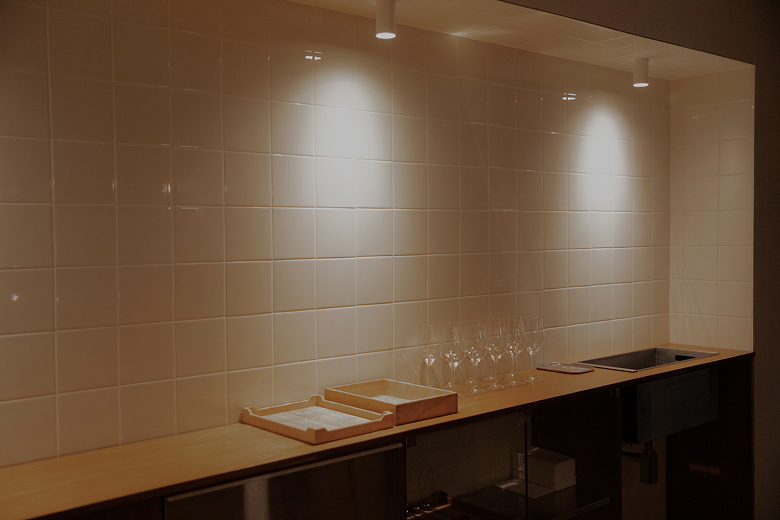
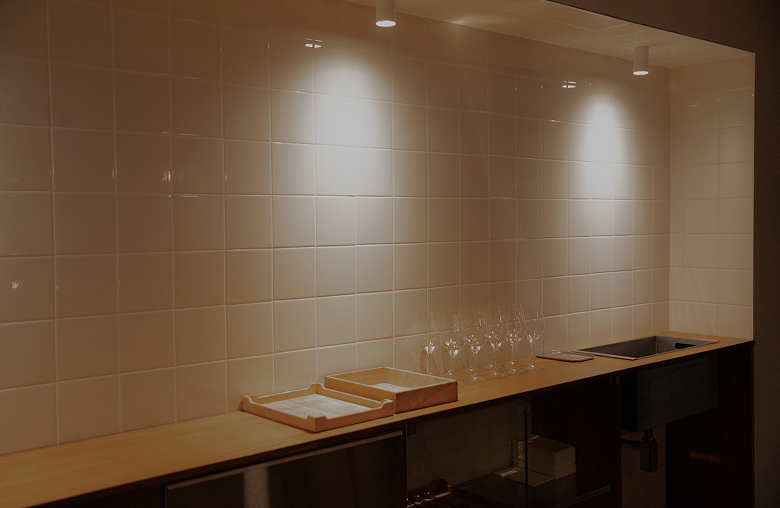
Fix sizes

diff --git a/src/components/Restaurant.tsx b/src/components/Restaurant.tsx
@@ -6,7 +6,7 @@ import logo from "@/assets/images/logo-w-s.png";
 export function Restaurant() {
   return (
     <section id="restaurant" className="section">
-      <div className="flex flex-col overflow-hidden">
+      <div className="flex flex-col">
         <Image
           alt=""
           src={logo}
@@ -16,7 +16,13 @@ export function Restaurant() {
         />
 
         <div className="relative">
-          <Image alt="" src={salon1} quality={100} placeholder="blur" />
+          <Image
+            alt=""
+            src={salon1}
+            quality={100}
+            placeholder="blur"
+            className="h-[63.7vh]"
+          />
 
           <p className="font-secondary text-9 absolute right-[5.38%] bottom-[7.62%] w-55 text-right text-white">
             En barrancas de Belgrano, tenemos una barra para 6 personas y mesas
@@ -24,7 +30,13 @@ export function Restaurant() {
           </p>
         </div>
 
-        <Image alt="" src={salon2} quality={100} placeholder="blur" />
+        <Image
+          alt=""
+          src={salon2}
+          quality={100}
+          placeholder="blur"
+          className="h-[36.3vh]"
+        />
       </div>
     </section>
   );

diff --git a/src/components/Reservations.tsx b/src/components/Reservations.tsx
@@ -7,8 +7,20 @@ export function Reservations() {
   return (
     <section id="reservas" className="section">
       <div className="flex flex-col">
-        <Image alt="" src={reservas1} quality={100} placeholder="blur" />
-        <Image alt="" src={reservas2} quality={100} placeholder="blur" />
+        <Image
+          alt=""
+          src={reservas1}
+          quality={100}
+          placeholder="blur"
+          className="h-1/2"
+        />
+        <Image
+          alt=""
+          src={reservas2}
+          quality={100}
+          placeholder="blur"
+          className="h-1/2"
+        />
 
         <p className="font-secondary text-13 absolute inset-x-1/2 top-1/2 w-45 -translate-1/2 text-center font-light text-white">
           Martes a Sábados a partir de las 20hs

diff --git a/src/components/Hero.tsx b/src/components/Hero.tsx
@@ -53,7 +53,7 @@ export function Hero() {
         src={logo}
         quality={100}
         placeholder="blur"
-        className="absolute inset-1/2 w-[42vw] -translate-1/2"
+        className="absolute inset-1/2 w-42 -translate-1/2"
       />
     </section>
   );
